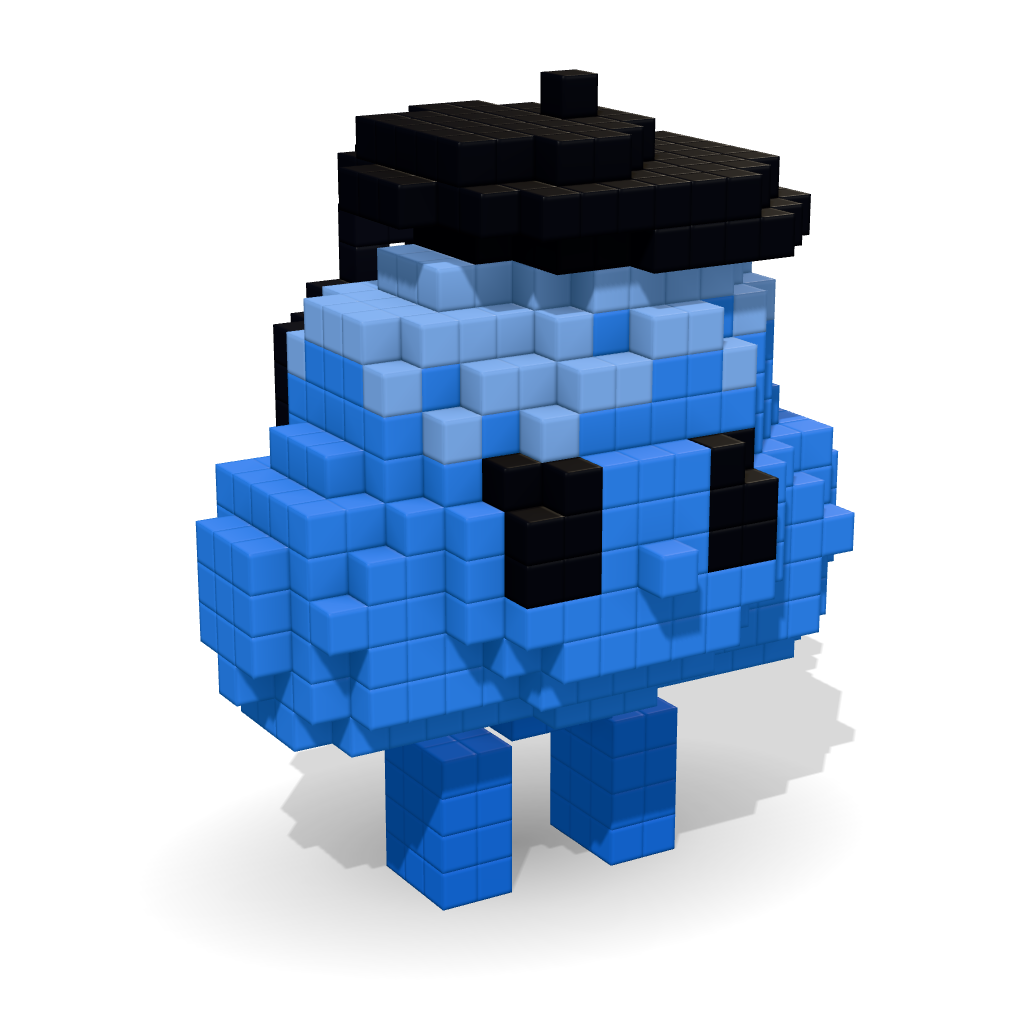
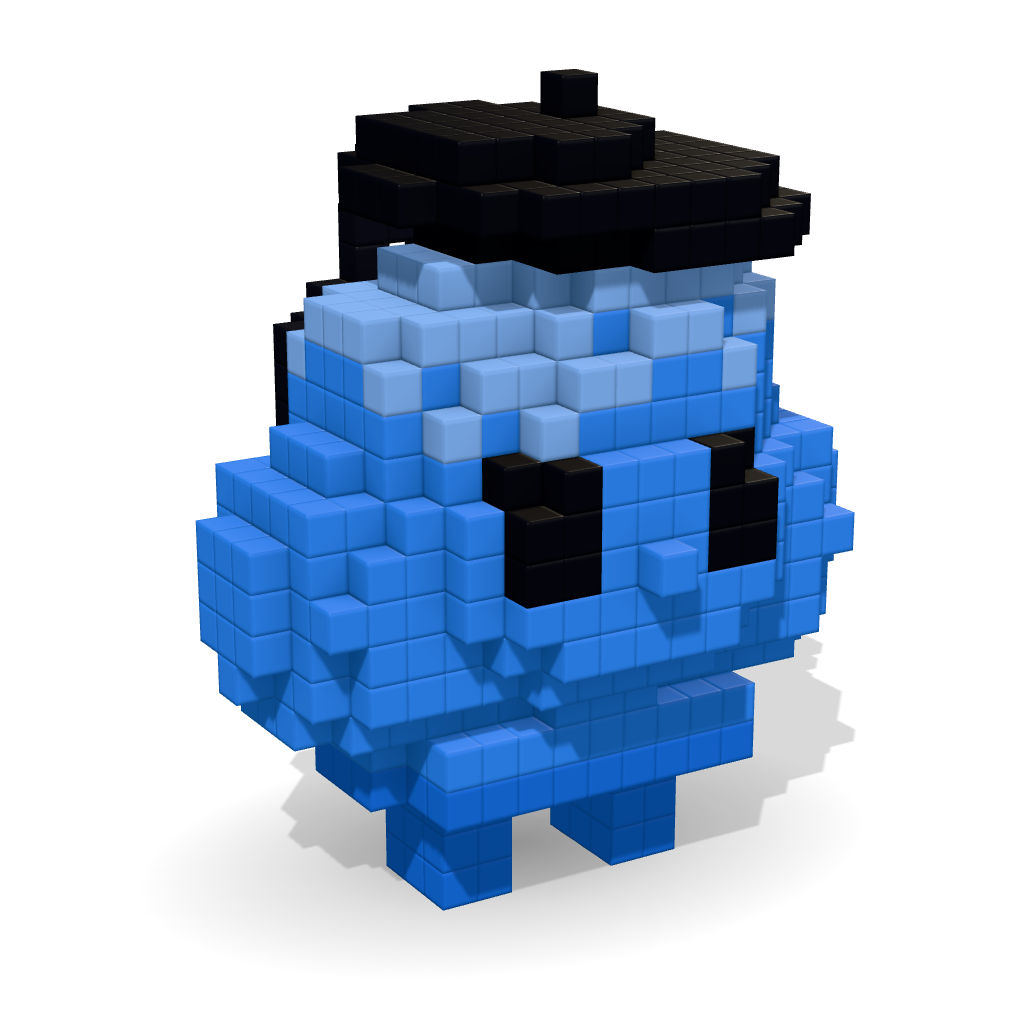
Apoie a Nuvem em pernas curtas e balance o pet inteiro

Changed region(s): [[0.2812, 0.6562, 0.75, 0.875], [0.6875, 0.7812, 0.75, 0.8125], [0.6562, 0.125, 0.6875, 0.1562]]

diff --git a/assets/pets/malha.js b/assets/pets/malha.js
@@ -279,6 +279,9 @@ export function animarPet(pet, t, animacao = 'parado') {
     g.rotation.set(0, 0, 0);
     g.scale.set(1, 1, 1);
   }
+  // balanços inclinam o modelo inteiro (com as pernas), para o corpo não descolar das pernas
+  const modelo = grupos.raiz;
+  modelo.rotation.set(0, 0, 0);
   const S = dados.escala ?? 1; // deslocamentos abaixo estão em unidades do projeto
   const lista = Object.values(partes);
   const bracos = lista.filter((p) => p.tipo === 'braco');
@@ -303,7 +306,7 @@ export function animarPet(pet, t, animacao = 'parado') {
       for (const p of pernas) grupos[p.nome].rotation.x = s * 0.6 * sinal(p);
       for (const b of bracos) grupos[b.nome].rotation.x = -s * 0.5 * sinal(b);
       corpo.position.y += Math.abs(Math.cos(f)) * 0.7 * S;
-      corpo.rotation.z = s * 0.05;
+      modelo.rotation.z = s * 0.05;
       break;
     }
     case 'pular': {
@@ -325,8 +328,7 @@ export function animarPet(pet, t, animacao = 'parado') {
       const b = bracos.find((q) => q.lado === 'D') ?? bracos[0];
       const levantar = b?.levantar ?? 2.4;
       if (b) grupos[b.nome].rotation.z = sinal(b) * (levantar + Math.sin(t * 9) * Math.min(0.32, levantar * 0.45));
-      else corpo.rotation.z = Math.sin(t * 6) * 0.12;
-      corpo.rotation.z += Math.sin(t * 3) * 0.035;
+      modelo.rotation.z = b ? Math.sin(t * 3) * 0.035 : Math.sin(t * 6) * 0.1; // sem braço, o pet todo balança
       corpo.position.y += Math.sin(t * 2.2) * 0.15 * S;
       break;
     }
@@ -335,7 +337,7 @@ export function animarPet(pet, t, animacao = 'parado') {
       subir(q * 2.6);
       esticar(1 + (q - 0.5) * 0.08);
       for (const b of bracos) grupos[b.nome].rotation.z = sinal(b) * ((b.levantar ?? 2.4) * 1.05 + Math.sin(t * 14) * 0.22);
-      corpo.rotation.y = Math.sin(t * 5) * 0.18;
+      modelo.rotation.y = Math.sin(t * 5) * 0.18;
       break;
     }
     default: {

diff --git a/assets/pets/especies.js b/assets/pets/especies.js
@@ -486,15 +486,16 @@ export const PETS = [
     animacao: 'parado',
     encaixes: { olhos: { x: 8.5, y: 10.5, dist: 5, larg: 2 }, topo: { x: 9.5, y: 18, z: 6.5, raio: 4.5 }, peito: { x: 8.5, y: 7, sep: 4 } },
     construir(m) {
-      m.parte('corpo', { pivo: [8.5, 4, 6.5] });
+      m.parte('corpo', { pivo: [8.5, 3, 6.5] });
       for (const [x, y, z, r] of [[8.5, 9.8, 6.5, 5.6], [3.9, 8.4, 6.5, 3.9], [13.1, 8.4, 6.5, 3.9], [10.2, 13.2, 6.5, 4.3], [5.9, 12.4, 6.5, 3.4]]) {
         m.esfera(x, y, z, r, C.azulCeu);
       }
       m.elipsoide(8.5, 9.5, 9.3, 4.6, 3.6, 3.2, C.azulCeu); // rosto mais cheio e plano
-      m.regiao(-3, 21, -3, 4, -3, 16, null, null);
+      m.bloco(3.5, 13.5, 3, 5.5, 3, 10, 2.5, C.azulCeu); // base reta, apoiada nas pernas
+      m.regiao(-3, 21, -3, 3, -3, 16, null, null);
       m.pintar((x, y, z, cor, i, j, k) => {
         if (y >= 12.5 && !m.ocupado(i, j + 1, k)) return C.azulCeuClaro;
-        if (y < 5.5) return C.azulCeuEscuro;
+        if (y < 4) return C.azulCeuEscuro;
       });
       par(m, OLHO_OVAL, 5, 10, 11);
       // boina (acessório)
@@ -502,7 +503,7 @@ export const PETS = [
       m.elipsoide(9.6, 17.2, 6.5, 5.6, 1.5, 4.9, C.tinta, { giroZ: -0.14 });
       m.esfera(9.3, 19, 6.3, 0.75, C.tinta);
       mochila(m, { x0: 5, x1: 11, y0: 5, y1: 13, zFrente: 1, zTras: -2 });
-      pernas(m, { xE: 5, xD: 10, altura: 4, z: 5, prof: 3, cor: C.azulCeuEscuro });
+      pernas(m, { xE: 5, xD: 10, altura: 3, z: 5, prof: 3, cor: C.azulCeuEscuro });
       m.ancora('cabeca', [9.5, 19.5, 6.5]).ancora('rosto', [8.5, 10, 12]).ancora('costas', [8.5, 9, -2]);
     },
   },

diff --git a/assets/pets/README.md b/assets/pets/README.md
@@ -22,7 +22,7 @@ O estilo segue a referência:
 | <img src="png/globinho.png" width="72"> | **07 Globinho** | Adora gente de todas as áreas. | 1.264 | 17 × 17 × 14 |
 | <img src="png/estrelinha.png" width="72"> | **08 Estrelinha** | Animado e sempre incentiva os outros. | 871 | 17 × 20 × 9 |
 | <img src="png/conezinho.png" width="72"> | **09 Conezinho** | Direto e ajuda a focar no objetivo. | 1.293 | 15 × 21 × 15 |
-| <img src="png/nuvem.png" width="72"> | **10 Nuvem** | Observador e sempre vê o lado diferente. | 1.529 | 17 × 20 × 15 |
+| <img src="png/nuvem.png" width="72"> | **10 Nuvem** | Observador e sempre vê o lado diferente. | 1.640 | 17 × 20 × 15 |
 
 ## Arquivos
 
